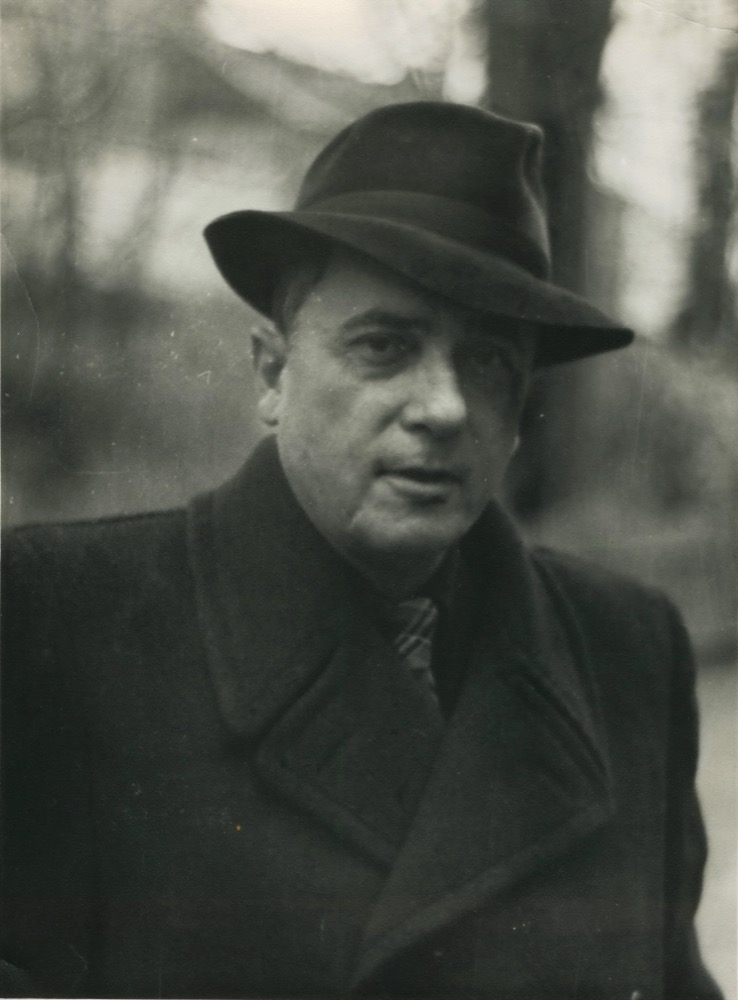
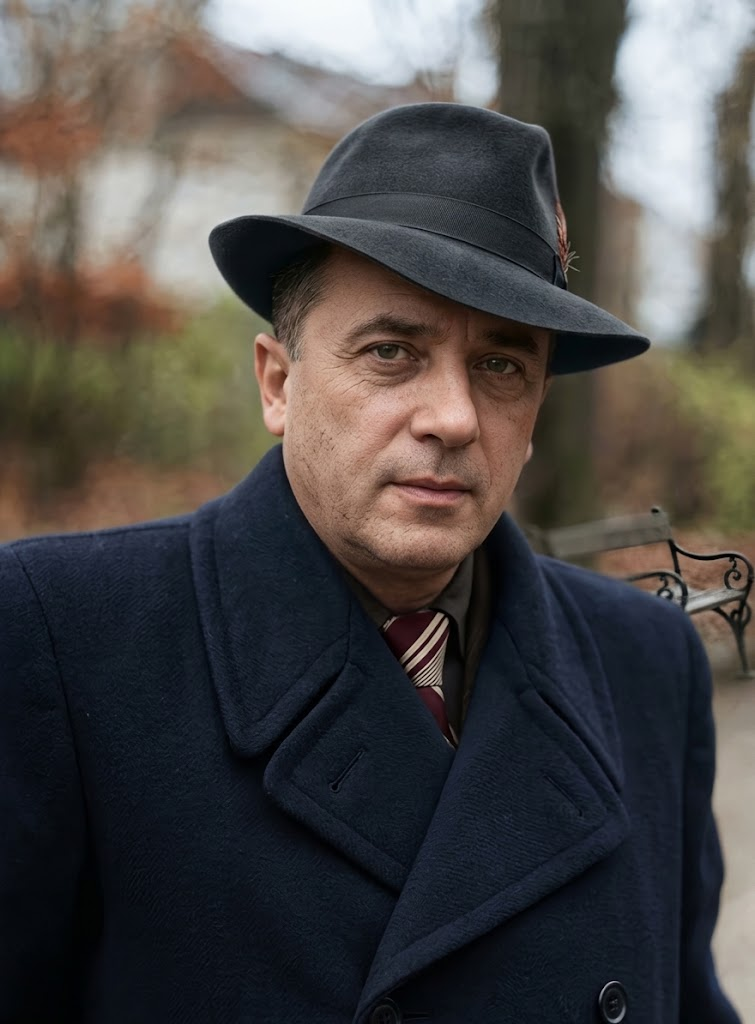
Approve Sosiura: colorized portrait

diff --git a/src/content/people/uk/volodymyr-sosiura.md b/src/content/people/uk/volodymyr-sosiura.md
@@ -21,6 +21,7 @@ image:
   position: "50% 30%"
   author: "Микола Дашкієв"
   license: "GFDL"
+  ai_edit: colorized
   source_url: "https://commons.wikimedia.org/wiki/File:Володимир_Сосюра_у_1950-ті.jpg"
 key_accomplishments:
   - "Збірки «Поезії» (1921) і «Червона зима» (1922), що принесли йому славу"
@@ -41,7 +42,8 @@ sources:
   - title: "Osvita.ua - Володимир Сосюра, «Любіть Україну!» (текст вірша)"
     url: "https://osvita.ua/school/literature/s/63930/"
 related: [ivan-bahrianyi]
-status: draft
+status: approved
+published: 2026-10-13T23:18:09Z
 ---
 
 ## Хлопець із Третьої Роти
